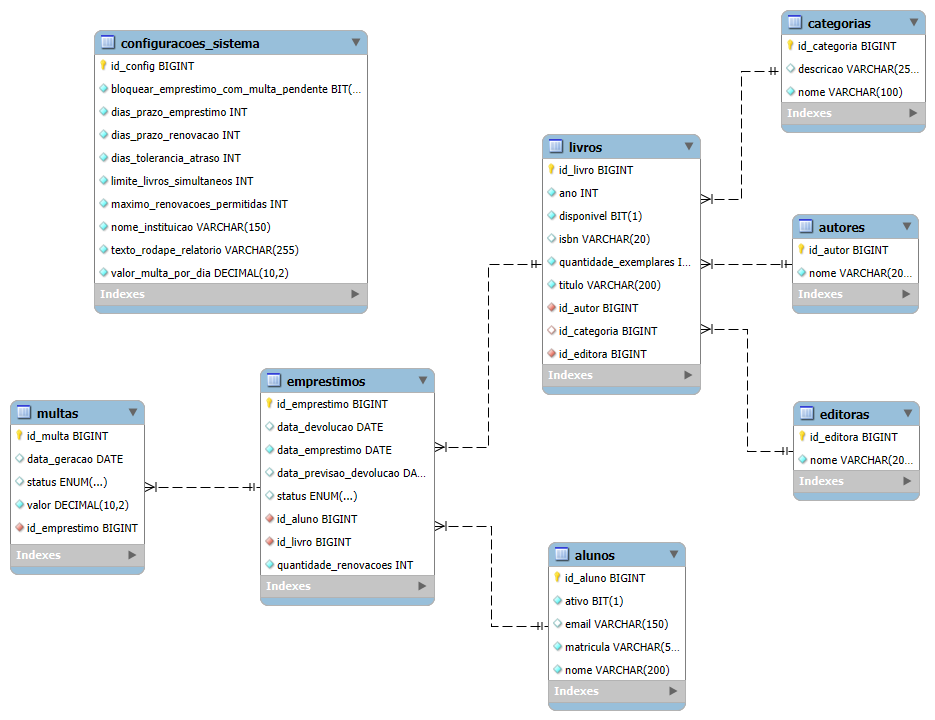
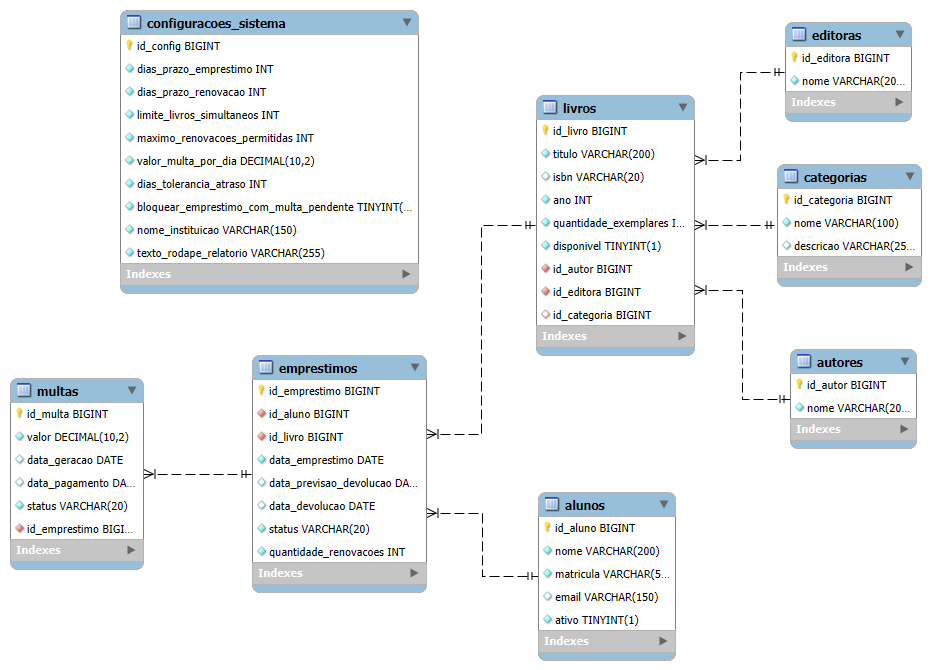
Corrige relatorios, calculo de multas, devolucao automatica ao receber e otimiza consultas de atrasados

diff --git a/src/main/resources/templates/relatorios/atrasados.html b/src/main/resources/templates/relatorios/atrasados.html
@@ -145,23 +145,24 @@
               <tr th:each="emp : ${atrasados}">
                 <td class="fw-semibold text-danger" th:text="${'#' + emp.id}">#1</td>
                 <td>
-                  <div class="fw-bold text-dark" th:text="${emp.aluno.nome}">Nome do Aluno</div>
-                  <small class="text-muted" th:text="${'Matrícula: ' + emp.aluno.matricula}">Matrícula: 123</small>
-                  <small class="text-muted d-block" th:if="${emp.aluno.telefone != null and !emp.aluno.telefone.isEmpty()}" th:text="${'Tel: ' + emp.aluno.telefone}">Tel: (92) 99999-9999</small>
+                  <div class="fw-bold text-dark" th:text="${emp.aluno != null ? emp.aluno.nome : '-'}">Nome do Aluno</div>
+                  <small class="text-muted" th:text="${emp.aluno != null ? 'Matrícula: ' + emp.aluno.matricula : '-'}">Matrícula: 123</small>
+                  <small class="text-muted d-block" th:if="${emp.aluno != null and emp.aluno.email != null and !emp.aluno.email.isEmpty()}" th:text="${emp.aluno.email}">aluno@escola.edu.br</small>
                 </td>
                 <td>
-                  <div class="fw-semibold text-dark" th:text="${emp.livro.titulo}">Título do Livro</div>
-                  <small class="text-muted" th:text="${emp.livro.autor != null ? emp.livro.autor.nome : '-'}">Autor</small>
+                  <div class="fw-semibold text-dark" th:text="${emp.livro != null ? emp.livro.titulo : '-'}">Título do Livro</div>
+                  <small class="text-muted" th:text="${emp.livro != null and emp.livro.autor != null ? emp.livro.autor.nome : '-'}">Autor</small>
                 </td>
-                <td th:text="${#temporals.format(emp.dataEmprestimo, 'dd/MM/yyyy')}">01/01/2026</td>
+                <td th:text="${emp.dataEmprestimo != null ? #temporals.format(emp.dataEmprestimo, 'dd/MM/yyyy') : '-'}">01/01/2026</td>
                 <td>
-                  <span class="text-danger fw-semibold" th:text="${#temporals.format(emp.dataPrevisaoDevolucao, 'dd/MM/yyyy')}">15/01/2026</span>
+                  <span class="text-danger fw-semibold" th:text="${emp.dataPrevisaoDevolucao != null ? #temporals.format(emp.dataPrevisaoDevolucao, 'dd/MM/yyyy') : '-'}">15/01/2026</span>
                 </td>
                 <td class="text-center">
-                  <span class="badge-delay">
+                  <span class="badge-delay" th:if="${emp.dataPrevisaoDevolucao != null}">
                     <i class="bi bi-clock-history"></i>
                     <span th:text="${T(java.time.temporal.ChronoUnit).DAYS.between(emp.dataPrevisaoDevolucao, T(java.time.LocalDate).now()) + ' dia(s)'}">5 dia(s)</span>
                   </span>
+                  <span th:if="${emp.dataPrevisaoDevolucao == null}">-</span>
                 </td>
                 <td class="text-end btn-no-print">
                   <a th:href="@{/emprestimos}" class="btn btn-sm btn-light rounded-pill px-3 fw-semibold text-secondary" title="Ver no módulo de empréstimos">

diff --git a/src/main/resources/templates/multas/listar.html b/src/main/resources/templates/multas/listar.html
@@ -169,30 +169,30 @@
 
                     <td class="text-center">
                       <span class="fw-bold"
-                            th:classappend="${m.status.name() == 'PENDENTE' ? 'text-danger' : 'text-secondary'}"
+                            th:classappend="${m.status != null and m.status.name() == 'PENDENTE' ? 'text-danger' : 'text-secondary'}"
                             th:text="${m.diasAtraso}">
-                        12
+                        0
                       </span>
                     </td>
 
                     <td>
                       <span class="fw-bold text-dark"
                             th:text="${'R$ ' + (m.valor != null ? #numbers.formatDecimal(m.valor, 1, 'POINT', 2, 'COMMA') : '0,00')}">
-                        R$ 24,00
+                        R$ 0,00
                       </span>
                     </td>
 
                     <td>
-                      <span th:if="${m.status.name() == 'PENDENTE'}" class="badge-soft-danger">
+                      <span th:if="${m.status != null and m.status.name() == 'PENDENTE'}" class="badge-soft-danger">
                         Pendente
                       </span>
-                      <span th:if="${m.status.name() == 'PAGO'}" class="badge-soft-success">
+                      <span th:if="${m.status != null and m.status.name() == 'PAGO'}" class="badge-soft-success">
                         Pago
                       </span>
                     </td>
 
                     <td class="text-end pe-2">
-                      <a th:if="${m.status.name() == 'PENDENTE'}"
+                      <a th:if="${m.status != null and m.status.name() == 'PENDENTE'}"
                          th:href="@{/multas/pagar/{id}(id=${m.id})}"
                          class="btn btn-primary rounded-pill px-3 py-1 fw-semibold shadow-sm text-nowrap"
                          style="font-size: 0.85rem;"
@@ -200,7 +200,7 @@
                         <i class="bi bi-check2 me-1"></i> Receber
                       </a>
 
-                      <div th:if="${m.status.name() == 'PAGO'}" class="text-secondary small d-inline-flex align-items-center gap-1">
+                      <div th:if="${m.status != null and m.status.name() == 'PAGO'}" class="text-secondary small d-inline-flex align-items-center gap-1">
                         <i class="bi bi-clock-history text-muted"></i>
                         <span th:text="${m.dataPagamento != null ? #temporals.format(m.dataPagamento, 'dd/MM/yyyy') : (m.dataGeracao != null ? #temporals.format(m.dataGeracao, 'dd/MM/yyyy') : 'Pago')}">
                           12/10/2023

diff --git a/src/main/java/cetam/projeto01grupo03/service/RelatorioService.java b/src/main/java/cetam/projeto01grupo03/service/RelatorioService.java
@@ -46,8 +46,8 @@ public class RelatorioService {
 
     @Transactional
     public DashboardDTO obterDadosDashboard() {
-
-        emprestimoService.listarTodos(null);
+        LocalDate hoje = LocalDate.now();
+        emprestimoRepository.atualizarStatusEmprestimosVencidos(StatusEmprestimo.ATRASADO, StatusEmprestimo.ATIVO, hoje);
 
         DashboardDTO dto = new DashboardDTO();
 
@@ -55,9 +55,10 @@ public class RelatorioService {
         long totalExemplares = livroRepository.sumTotalExemplares();
         long totalAlunos = alunoRepository.count();
         long totalAtivos = emprestimoRepository.countByStatus(StatusEmprestimo.ATIVO);
-        long totalAtrasados = emprestimoRepository.countByStatus(StatusEmprestimo.ATRASADO);
+        List<Emprestimo> todosAtrasados = emprestimoRepository.findEmprestimosEmAtrasoEmAberto(hoje);
+        long totalAtrasados = todosAtrasados.size();
         long totalDevolvidos = emprestimoRepository.countByStatus(StatusEmprestimo.DEVOLVIDO);
-        long totalDevolucoesHoje =  emprestimoRepository.countByDataPrevisaoDevolucaoAndStatusNot(LocalDate.now(), StatusEmprestimo.DEVOLVIDO);
+        long totalDevolucoesHoje =  emprestimoRepository.countByDataPrevisaoDevolucaoAndStatusNot(hoje, StatusEmprestimo.DEVOLVIDO);
 
         dto.setTotalLivros(totalLivros);
         dto.setTotalExemplares(totalExemplares);
@@ -80,7 +81,6 @@ public class RelatorioService {
         }
 
         dto.setUltimosEmprestimos(emprestimoRepository.findAllByOrderByIdDesc(PageRequest.of(0, 5)));
-        List<Emprestimo> todosAtrasados = emprestimoRepository.findByStatus(StatusEmprestimo.ATRASADO);
         dto.setEmprestimosCriticosAtrasados(todosAtrasados.stream().limit(5).toList());
         dto.setTopLivros(obterLivrosMaisEmprestados(5));
 
@@ -89,7 +89,6 @@ public class RelatorioService {
         List<Long> devolucoesPorDia = new ArrayList<>();
         DateTimeFormatter dtf = DateTimeFormatter.ofPattern("dd/MM");
 
-        LocalDate hoje = LocalDate.now();
         for (int i = 6; i >= 0; i--) {
             LocalDate dia = hoje.minusDays(i);
             diasLabels.add(dia.format(dtf));
@@ -118,7 +117,7 @@ public class RelatorioService {
         long totalLivros = livroRepository.count();
         long totalAlunos = alunoRepository.count();
         long totalAtivos = emprestimoRepository.countByStatus(StatusEmprestimo.ATIVO);
-        long totalAtrasados = emprestimoRepository.countByStatus(StatusEmprestimo.ATRASADO);
+        long totalAtrasados = emprestimoRepository.findEmprestimosEmAtrasoEmAberto(LocalDate.now()).size();
         long totalDevolvidos = emprestimoRepository.countByStatus(StatusEmprestimo.DEVOLVIDO);
         long totalMultasPendentes = multaRepository.countByStatus(StatusMulta.PENDENTE);
 
@@ -150,9 +149,9 @@ public class RelatorioService {
 
     @Transactional
     public List<Emprestimo> obterEmprestimosAtrasados() {
-        // Atualiza status de eventuais empréstimos que venceram
-        emprestimoService.listarTodos(null);
-        return emprestimoRepository.findByStatus(StatusEmprestimo.ATRASADO);
+        LocalDate hoje = LocalDate.now();
+        emprestimoRepository.atualizarStatusEmprestimosVencidos(StatusEmprestimo.ATRASADO, StatusEmprestimo.ATIVO, hoje);
+        return emprestimoRepository.findEmprestimosEmAtrasoEmAberto(hoje);
     }
 
     @Transactional(readOnly = true)

diff --git a/src/main/java/cetam/projeto01grupo03/service/MultaService.java b/src/main/java/cetam/projeto01grupo03/service/MultaService.java
@@ -1,7 +1,12 @@
 package cetam.projeto01grupo03.service;
 
+import cetam.projeto01grupo03.model.Emprestimo;
+import cetam.projeto01grupo03.model.Livro;
 import cetam.projeto01grupo03.model.Multa;
+import cetam.projeto01grupo03.model.StatusEmprestimo;
 import cetam.projeto01grupo03.model.StatusMulta;
+import cetam.projeto01grupo03.repository.EmprestimoRepository;
+import cetam.projeto01grupo03.repository.LivroRepository;
 import cetam.projeto01grupo03.repository.MultaRepository;
 import jakarta.transaction.Transactional;
 import org.springframework.stereotype.Service;
@@ -16,9 +21,15 @@ import java.util.Objects;
 public class MultaService {
 
     private final MultaRepository multaRepository;
+    private final EmprestimoRepository emprestimoRepository;
+    private final LivroRepository livroRepository;
 
-    public MultaService(MultaRepository multaRepository) {
+    public MultaService(MultaRepository multaRepository,
+                        EmprestimoRepository emprestimoRepository,
+                        LivroRepository livroRepository) {
         this.multaRepository = multaRepository;
+        this.emprestimoRepository = emprestimoRepository;
+        this.livroRepository = livroRepository;
     }
 
     public List<Multa> listarTodas(String termo) {
@@ -44,7 +55,29 @@ public class MultaService {
             throw new IllegalStateException("Esta multa já foi liquidada anteriormente.");
         }
         multa.setStatus(StatusMulta.PAGO);
-        multa.setDataGeracao(LocalDate.now());
+        multa.setDataPagamento(LocalDate.now());
+
+        // Se o empréstimo associado ainda não estava registrado como devolvido, finaliza a devolução e repõe o exemplar
+        Emprestimo emprestimo = multa.getEmprestimo();
+        if (emprestimo != null) {
+            if (emprestimo.getStatus() != StatusEmprestimo.DEVOLVIDO || emprestimo.getDataDevolucao() == null) {
+                emprestimo.setStatus(StatusEmprestimo.DEVOLVIDO);
+                if (emprestimo.getDataDevolucao() == null) {
+                    emprestimo.setDataDevolucao(LocalDate.now());
+                }
+
+                Livro livro = emprestimo.getLivro();
+                if (livro != null) {
+                    int qtdAtual = livro.getQuantidadeExemplares() != null ? livro.getQuantidadeExemplares() : 0;
+                    livro.setQuantidadeExemplares(qtdAtual + 1);
+                    livro.setDisponivel(true);
+                    livroRepository.save(livro);
+                }
+
+                emprestimoRepository.save(emprestimo);
+            }
+        }
+
         return multaRepository.save(multa);
     }
 

diff --git a/src/main/java/cetam/projeto01grupo03/model/Multa.java b/src/main/java/cetam/projeto01grupo03/model/Multa.java
@@ -19,6 +19,9 @@ public class Multa {
     @Column(name = "data_geracao")
     private LocalDate dataGeracao;
 
+    @Column(name = "data_pagamento")
+    private LocalDate dataPagamento;
+
     @Enumerated(EnumType.STRING)
     @Column(length = 20)
     private StatusMulta status;
@@ -29,10 +32,11 @@ public class Multa {
 
     public Multa() {}
 
-    public Multa(Long id, BigDecimal valor, LocalDate dataGeracao, StatusMulta status, Emprestimo emprestimo) {
+    public Multa(Long id, BigDecimal valor, LocalDate dataGeracao, LocalDate dataPagamento, StatusMulta status, Emprestimo emprestimo) {
         this.id = id;
         this.valor = valor;
         this.dataGeracao = dataGeracao;
+        this.dataPagamento = dataPagamento;
         this.status = status;
         this.emprestimo = emprestimo;
     }
@@ -61,6 +65,14 @@ public class Multa {
         this.dataGeracao = dataGeracao;
     }
 
+    public LocalDate getDataPagamento() {
+        return dataPagamento;
+    }
+
+    public void setDataPagamento(LocalDate dataPagamento) {
+        this.dataPagamento = dataPagamento;
+    }
+
     public StatusMulta getStatus() {
         return status;
     }
@@ -75,6 +87,17 @@ public class Multa {
 
     public void setEmprestimo(Emprestimo emprestimo) {
         this.emprestimo = emprestimo;
+    }
+
+    public long getDiasAtraso() {
+        if (emprestimo == null || emprestimo.getDataPrevisaoDevolucao() == null) {
+            return 0;
+        }
+        LocalDate dataFim = emprestimo.getDataDevolucao() != null ? emprestimo.getDataDevolucao() : LocalDate.now();
+        if (dataFim.isAfter(emprestimo.getDataPrevisaoDevolucao())) {
+            return java.time.temporal.ChronoUnit.DAYS.between(emprestimo.getDataPrevisaoDevolucao(), dataFim);
+        }
+        return 0;
     }
 
     @Override

diff --git a/src/main/java/cetam/projeto01grupo03/service/EmprestimoService.java b/src/main/java/cetam/projeto01grupo03/service/EmprestimoService.java
@@ -37,18 +37,11 @@ public class EmprestimoService {
 
     @Transactional
     public List<Emprestimo> listarTodos(StatusEmprestimo status) {
-        List<Emprestimo> lista = emprestimoRepository.findAll();
-        LocalDate hoje = LocalDate.now();
-        for (Emprestimo emp : lista) {
-            if (emp.getStatus() == StatusEmprestimo.ATIVO && emp.getDataPrevisaoDevolucao() != null && hoje.isAfter(emp.getDataPrevisaoDevolucao())) {
-                emp.setStatus(StatusEmprestimo.ATRASADO);
-                emprestimoRepository.save(emp);
-            }
-        }
+        emprestimoRepository.atualizarStatusEmprestimosVencidos(StatusEmprestimo.ATRASADO, StatusEmprestimo.ATIVO, LocalDate.now());
         if (status != null) {
             return emprestimoRepository.findByStatus(status);
         }
-        return lista;
+        return emprestimoRepository.findAll();
     }
 
     public List<Emprestimo> listarPorAluno(Long alunoId) {
@@ -187,11 +180,8 @@ public class EmprestimoService {
 
                 emprestimo.setMulta(multa);
             }
-
-            emprestimo.setStatus(StatusEmprestimo.ATRASADO);
-        } else {
-            emprestimo.setStatus(StatusEmprestimo.DEVOLVIDO);
         }
+        emprestimo.setStatus(StatusEmprestimo.DEVOLVIDO);
 
         Livro livro = emprestimo.getLivro();
         if (livro != null) {

diff --git a/src/main/java/cetam/projeto01grupo03/repository/EmprestimoRepository.java b/src/main/java/cetam/projeto01grupo03/repository/EmprestimoRepository.java
@@ -42,4 +42,13 @@ public interface EmprestimoRepository extends JpaRepository<Emprestimo, Long> {
             "GROUP BY e.livro.id, e.livro.titulo, e.livro.autor.nome, e.livro.categoria.nome " +
             "ORDER BY COUNT(e) DESC")
     List<LivroMaisEmprestadoDTO> findLivrosMaisEmprestados(Pageable pageable);
+
+    @org.springframework.data.jpa.repository.Modifying
+    @Query("UPDATE Emprestimo e SET e.status = :statusAtrasado WHERE e.status = :statusAtivo AND e.dataPrevisaoDevolucao < :hoje AND e.dataDevolucao IS NULL")
+    void atualizarStatusEmprestimosVencidos(@org.springframework.data.repository.query.Param("statusAtrasado") StatusEmprestimo statusAtrasado,
+                                           @org.springframework.data.repository.query.Param("statusAtivo") StatusEmprestimo statusAtivo,
+                                           @org.springframework.data.repository.query.Param("hoje") LocalDate hoje);
+
+    @Query("SELECT e FROM Emprestimo e WHERE e.dataDevolucao IS NULL AND (e.status = 'ATRASADO' OR (e.status = 'ATIVO' AND e.dataPrevisaoDevolucao < :hoje)) ORDER BY e.dataPrevisaoDevolucao ASC")
+    List<Emprestimo> findEmprestimosEmAtrasoEmAberto(@org.springframework.data.repository.query.Param("hoje") LocalDate hoje);
 }

diff --git a/src/main/java/cetam/projeto01grupo03/controller/MultaController.java b/src/main/java/cetam/projeto01grupo03/controller/MultaController.java
@@ -31,6 +31,7 @@ public class MultaController {
         }
         model.addAttribute("termo", termo);
         model.addAttribute("totalPendente", multaService.calcularTotalPendente());
+        model.addAttribute("totalRecebido", multaService.calcularTotalRecebido());
         model.addAttribute("totalAlunosEmAtraso", multaService.contarAlunosEmAtraso());
         return "multas/listar";
     }

diff --git a/src/main/java/cetam/projeto01grupo03/repository/ConfigSistemaRepository.java b/src/main/java/cetam/projeto01grupo03/repository/ConfigSistemaRepository.java
@@ -2,8 +2,6 @@ package cetam.projeto01grupo03.repository;
 
 import cetam.projeto01grupo03.model.ConfigSistema;
 import org.springframework.data.jpa.repository.JpaRepository;
-import org.springframework.stereotype.Repository;
 
-@Repository
 public interface ConfigSistemaRepository extends JpaRepository<ConfigSistema, Long> {
 }

diff --git a/src/main/java/cetam/projeto01grupo03/controller/AlunoController.java b/src/main/java/cetam/projeto01grupo03/controller/AlunoController.java
@@ -1,7 +1,6 @@
 package cetam.projeto01grupo03.controller;
 
 import cetam.projeto01grupo03.model.Aluno;
-import cetam.projeto01grupo03.model.Autor;
 import cetam.projeto01grupo03.service.AlunoService;
 import org.springframework.dao.DataIntegrityViolationException;
 import org.springframework.stereotype.Controller;
